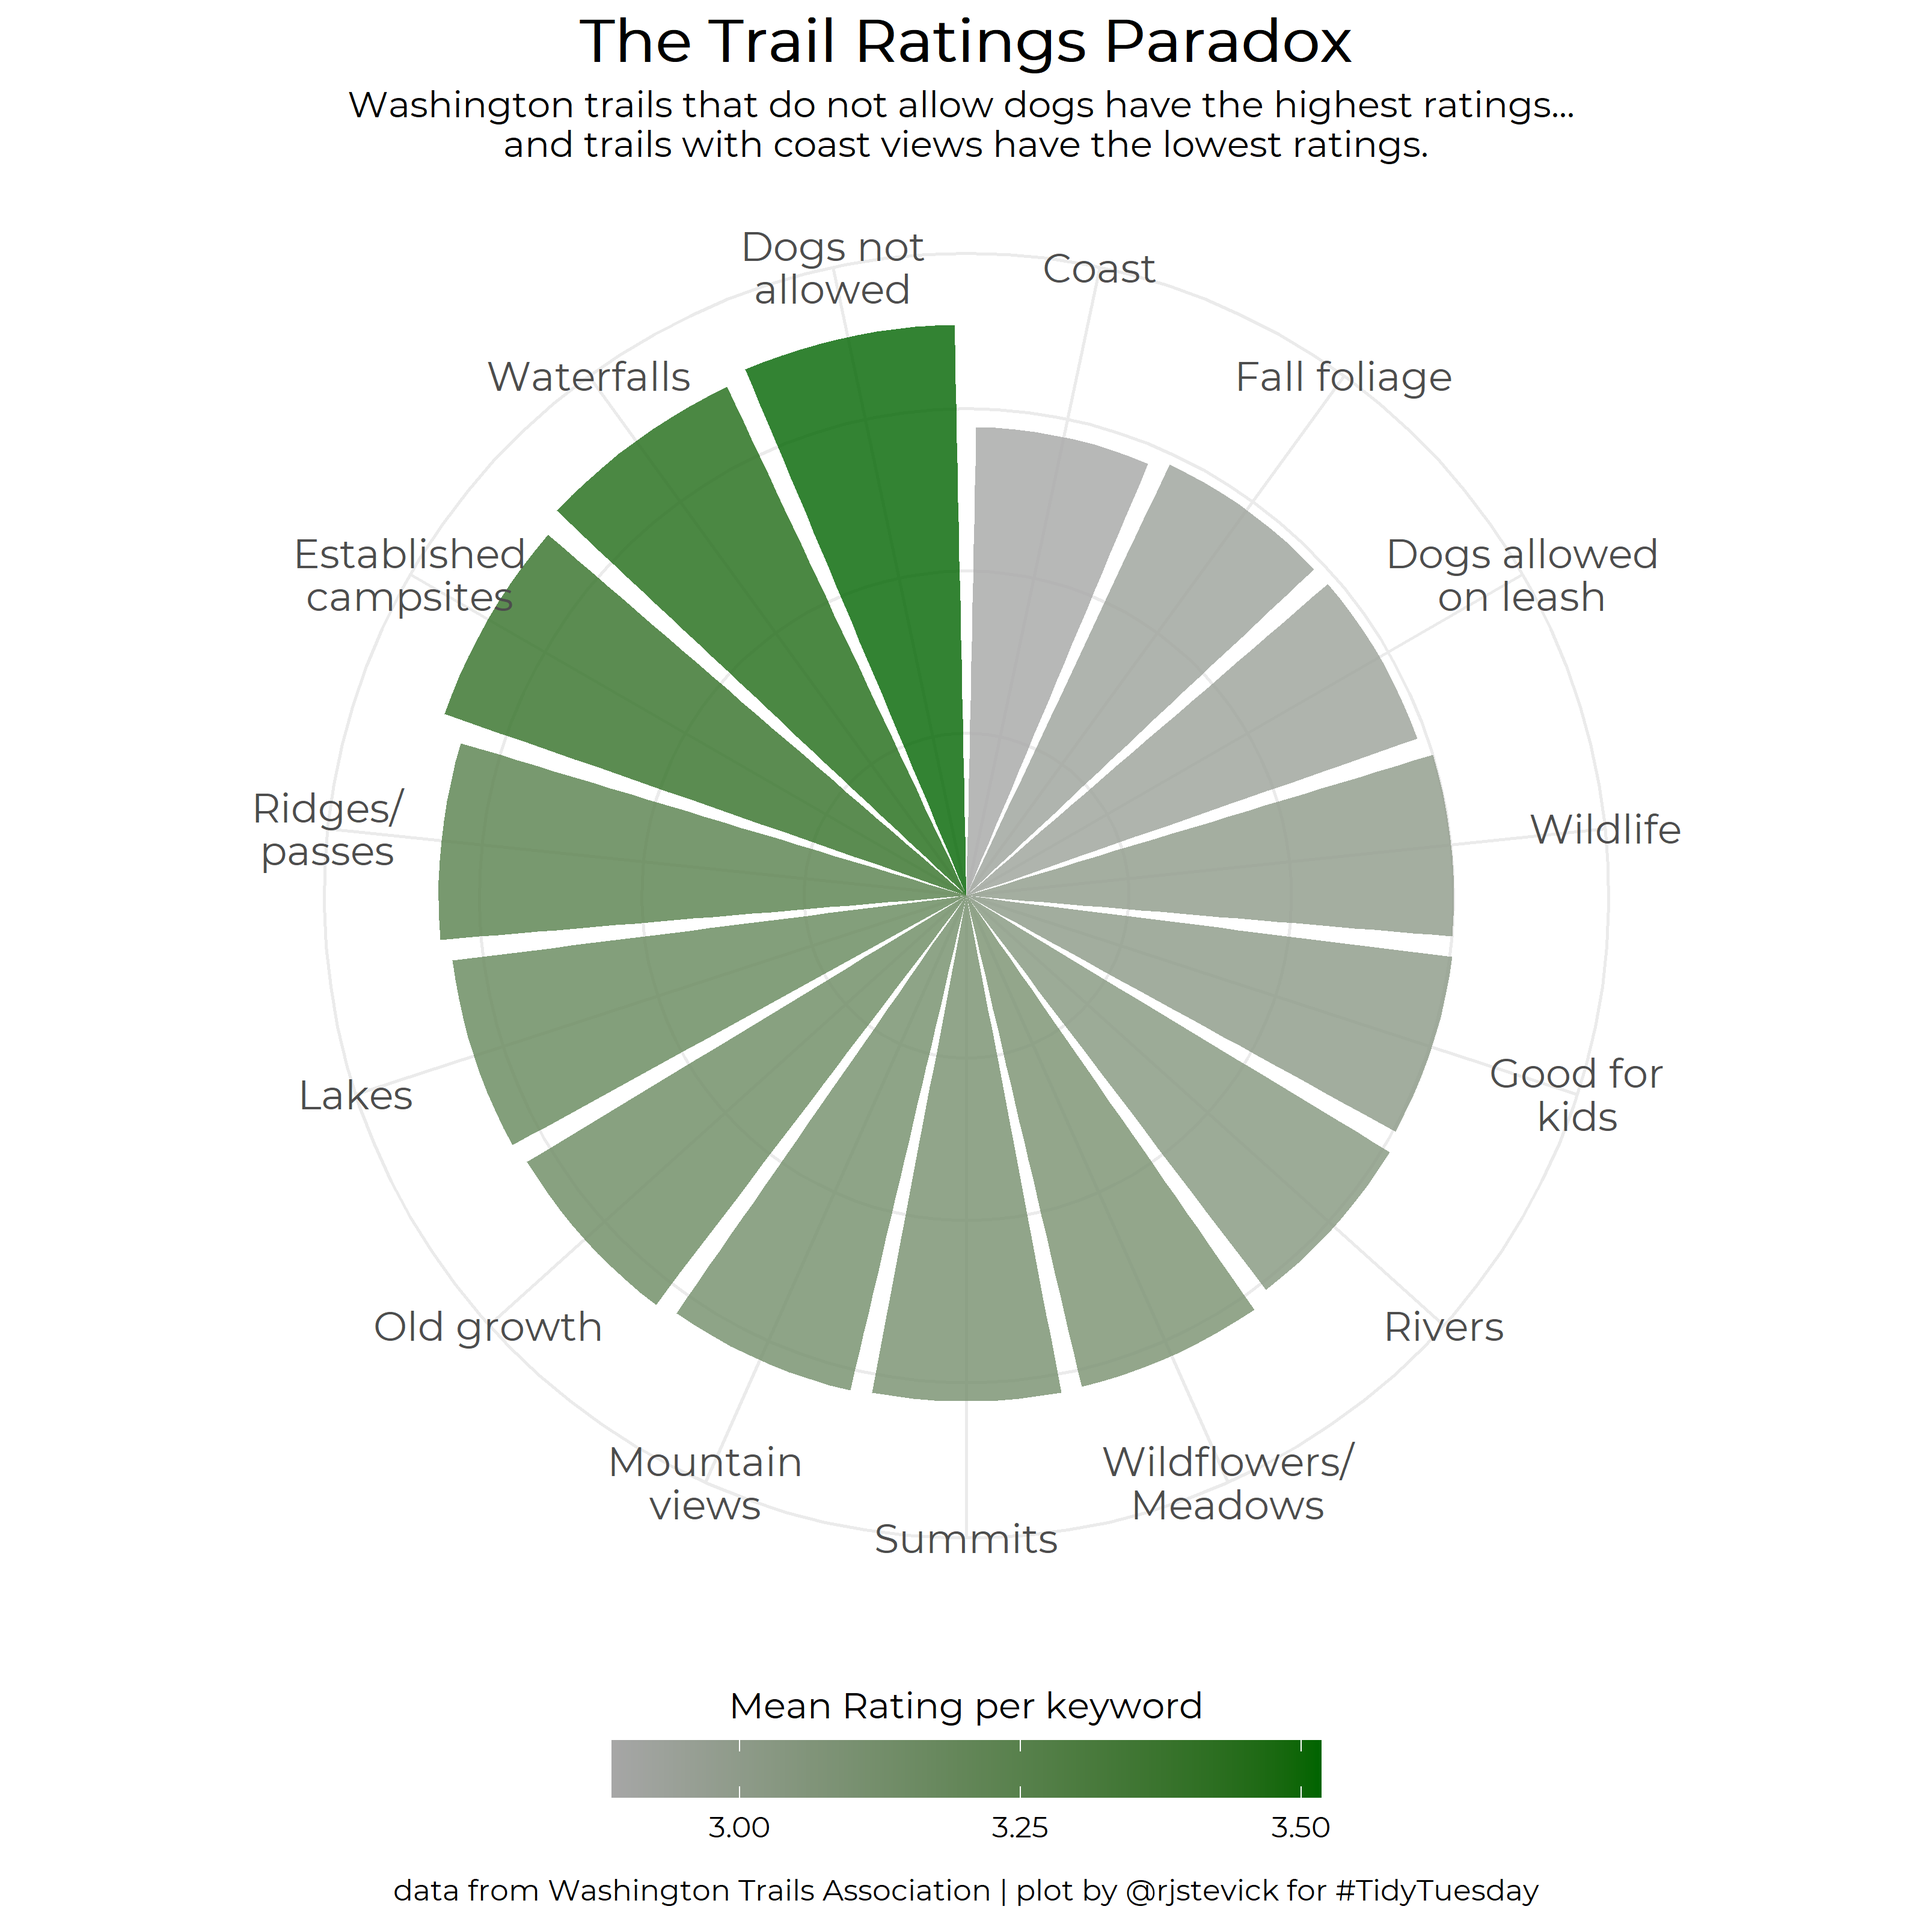
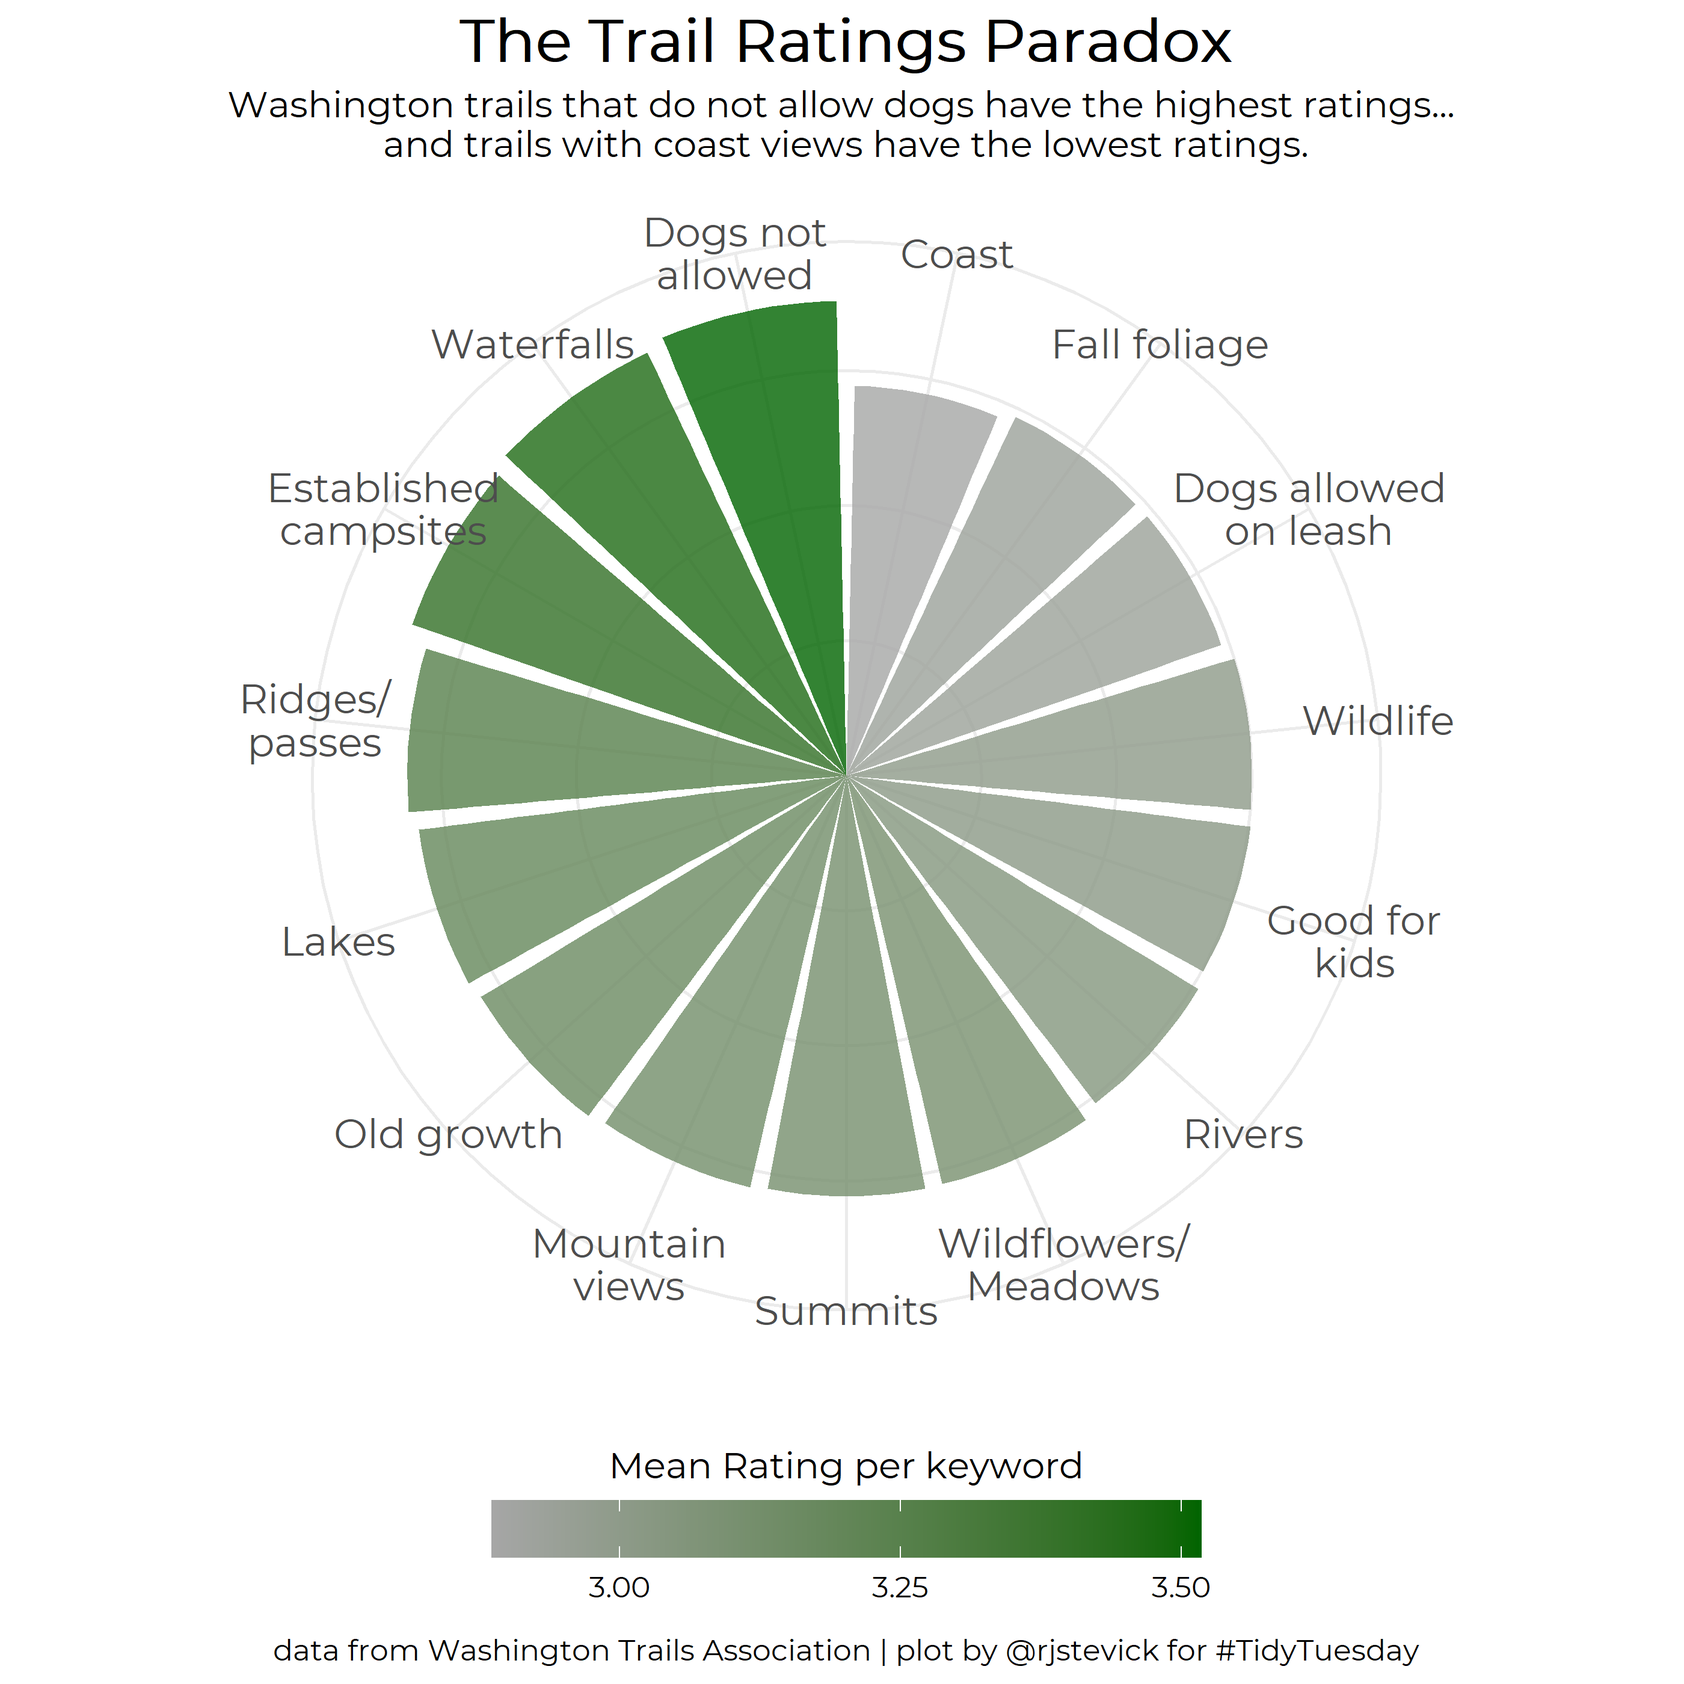
week 48 edits and comments

diff --git a/README.md b/README.md
@@ -42,4 +42,4 @@ https://github.com/rfordatascience/tidytuesday/
 | 45 | `2020-11-03` | [IKEA Furniture](https://github.com/rfordatascience/tidytuesday/blob/master/data/2020/2020-11-03/readme.md) | [Kaggle](https://www.kaggle.com/ahmedkallam/ikea-sa-furniture-web-scraping) | <a href="20201103_IkeaFurniture/tidytuesday_20201103.R"><img src="20201103_IkeaFurniture/IkeaFurniture_plot.png" width="400"></a>|
 | 46 | `2020-11-10` | [Historical Phones](https://github.com/rfordatascience/tidytuesday/blob/master/data/2020/2020-11-10/readme.md) | [Mobile vs Landline subscriptions](https://ourworldindata.org/technology-adoption#technology-leapfrogging) | <a href="20201110_HistoricalPhones/tidytuesday_20201110.R"><img src="20201110_HistoricalPhones/HistoricalPhones_plot.png" width="400"></a>|
 | 47 | `2020-11-17` | [Black in Data](https://github.com/rfordatascience/tidytuesday/blob/master/data/2020/2020-11-17/readme.md) | [Black in Data Week](https://blkindata.github.io/bidweek2020/) | <a href="20201117_BlackInData/tidytuesday_20201117.R"><img src="20201117_BlackInData/BlackInData_plot.png" width="400"></a>|
-| 48 | `2020-11-24` | [Washington Trails](https://github.com/rfordatascience/tidytuesday/blob/master/data/2020/2020-11-24/readme.md) | [WTA](https://www.wta.org/go-outside/hikes?b_start:int=1) | <a href="20201124_WashingtonTrails/tidytuesday_20201124.R"><img src="20201124_WashingtonTrails/WashingtonTrails_plot.png" width="400"></a>|
+| 48 | `2020-11-24` | [Washington Trails](https://github.com/rfordatascience/tidytuesday/blob/master/data/2020/2020-11-24/readme.md) | [WTA](https://www.wta.org/go-outside/hikes?b_start:int=1) | <a href="20201124_WashingtonTrails/tidytuesday_20201124.R"><img src="20201124_WashingtonTrails/WashingtonTrails_plot.png" width="200"></a>|
